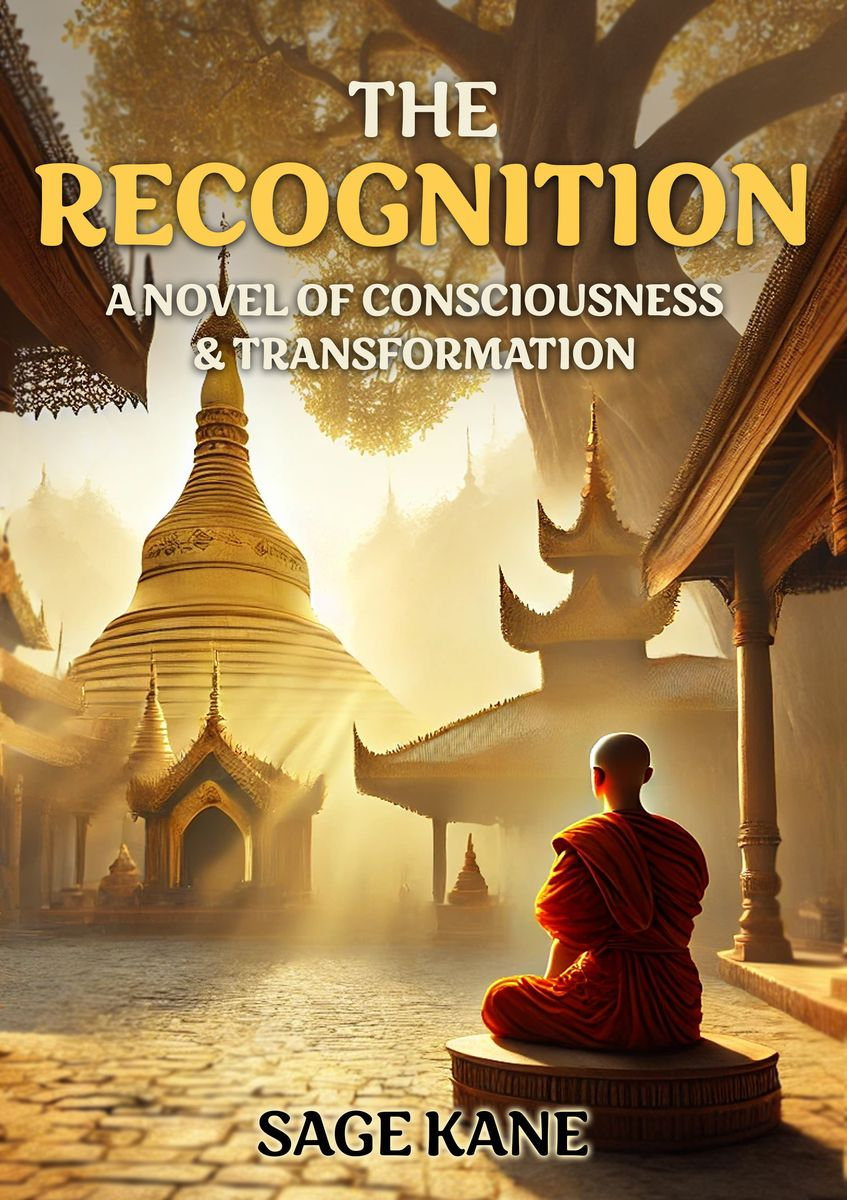
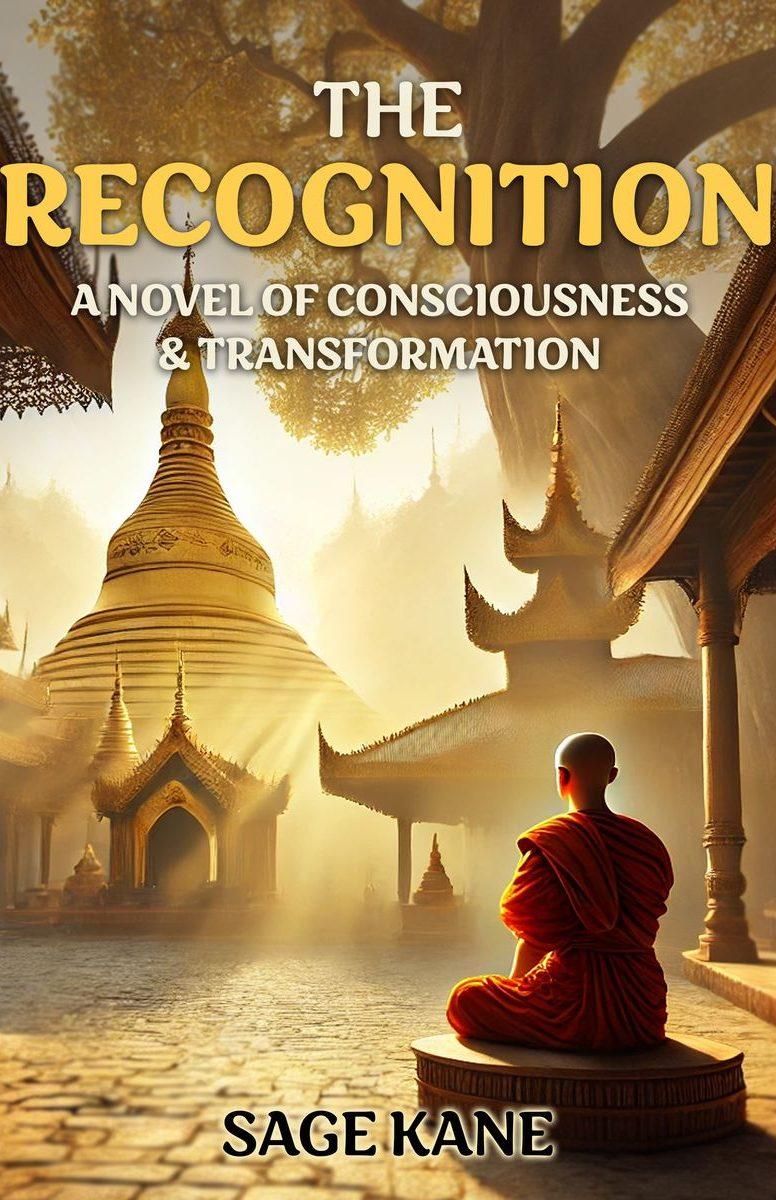
Catalogue: uniform cover heights + reserved title height
- Normalize morning-coffee (811x1200), the-recognition + blood-and-leaves
  (847x1200) to the 776x1200 house standard by trimming side margins, so
  every cover renders at the same height in its row (the off-standard
  ratios were rendering shorter/taller than their row-mates).
- Reserve a 2-line min-height on .book h3 so cards with a 1-line title
  (e.g. Morning Coffee) align their byline/price with 2-line titles
  (e.g. Notes from the Cushion) in the same row.

diff --git a/css/style.css b/css/style.css
@@ -86,7 +86,7 @@ section { padding: 4.75rem 0; }
 .book:hover .cover img { transform: translateY(-6px); box-shadow: 0 2px 3px rgba(40,34,24,.12), 0 20px 40px rgba(40,34,24,.22); }
 .book .cover .placeholder { width: 100%; height: 100%; border: 1px solid var(--rule); background: var(--paper-2); display: flex; flex-direction: column; align-items: center; justify-content: center; gap: .4rem; font-family: var(--sans); font-size: .54rem; letter-spacing: .2em; text-transform: uppercase; color: var(--ink-faint); text-align: center; border-radius: 2px; }
 .book .cover .placeholder .ph-mark { font-family: var(--display); font-size: 1.6rem; font-style: italic; color: var(--rule); letter-spacing: 0; }
-.book h3 { font-family: var(--display); font-optical-sizing: auto; font-weight: 500; font-size: 1.34rem; line-height: 1.18; letter-spacing: -.005em; margin-bottom: .35rem; }
+.book h3 { font-family: var(--display); font-optical-sizing: auto; font-weight: 500; font-size: 1.34rem; line-height: 1.18; letter-spacing: -.005em; margin-bottom: .35rem; min-height: 2.36em; }
 .book .sub { font-style: italic; color: var(--ink-soft); font-size: 1.02rem; line-height: 1.34; margin-bottom: .8rem; min-height: 4.1rem; }
 .book .byline { font-family: var(--sans); font-size: .64rem; font-weight: 600; letter-spacing: .13em; text-transform: uppercase; color: var(--ink-faint); margin-bottom: .8rem; }
 .book .byline a { color: var(--ink-soft); text-decoration: none; border-bottom: 1px solid var(--rule); padding-bottom: 1px; transition: color .15s, border-color .15s; }